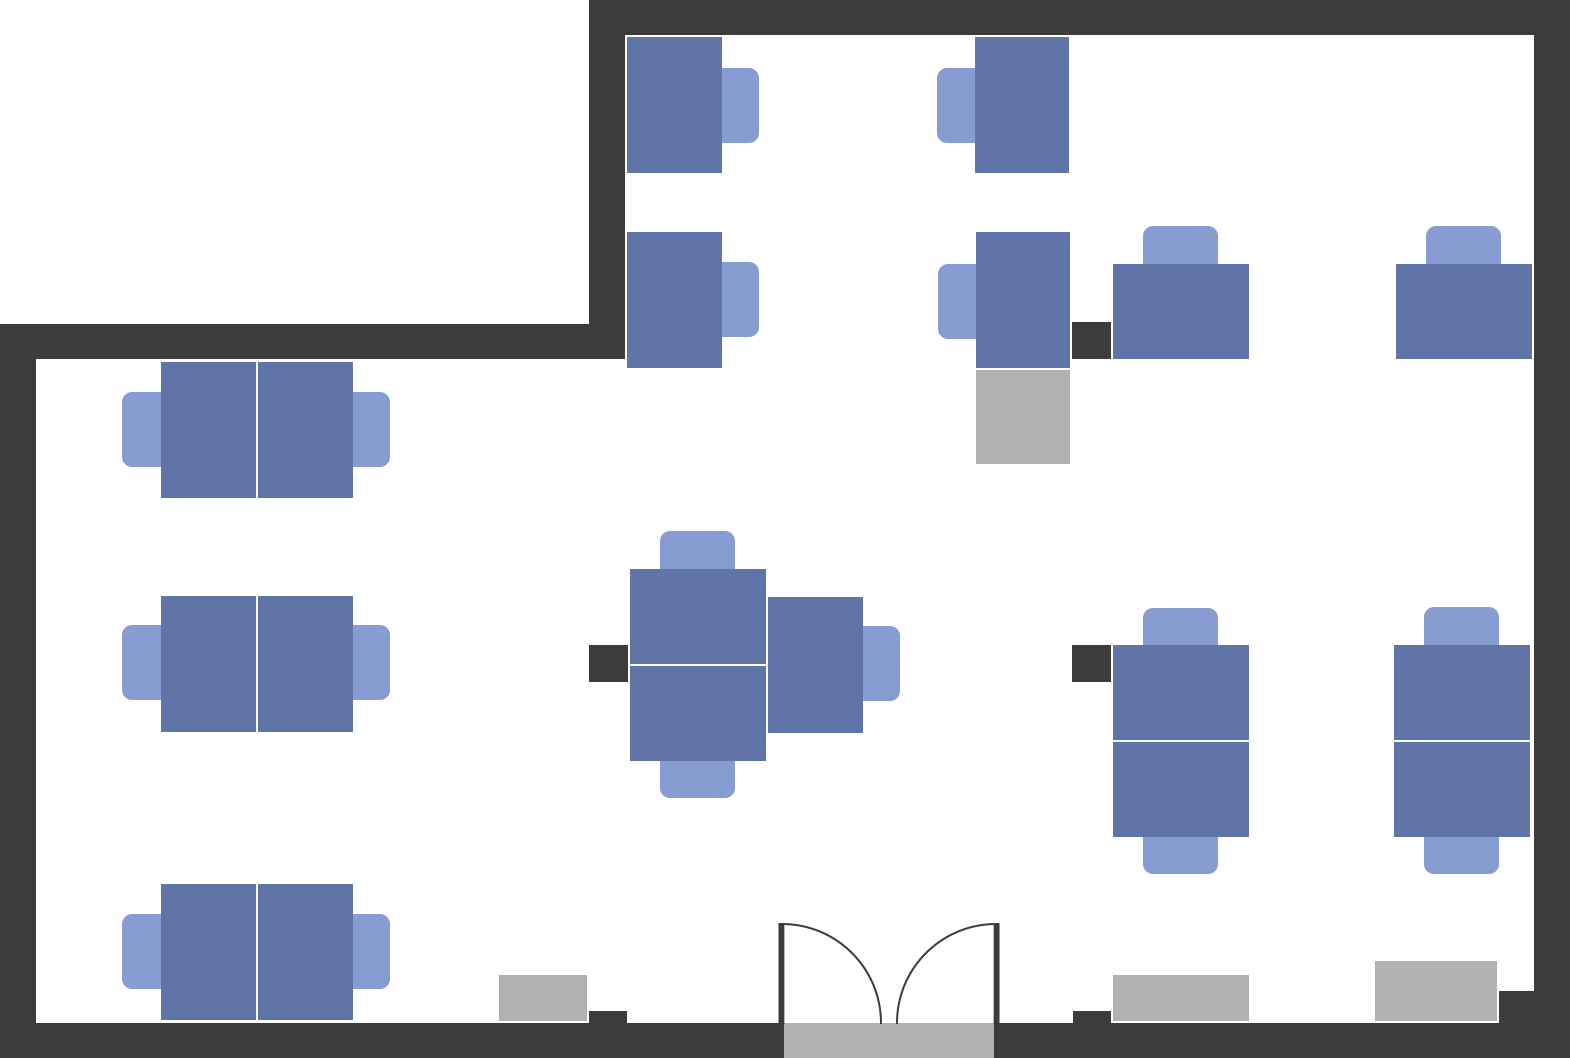
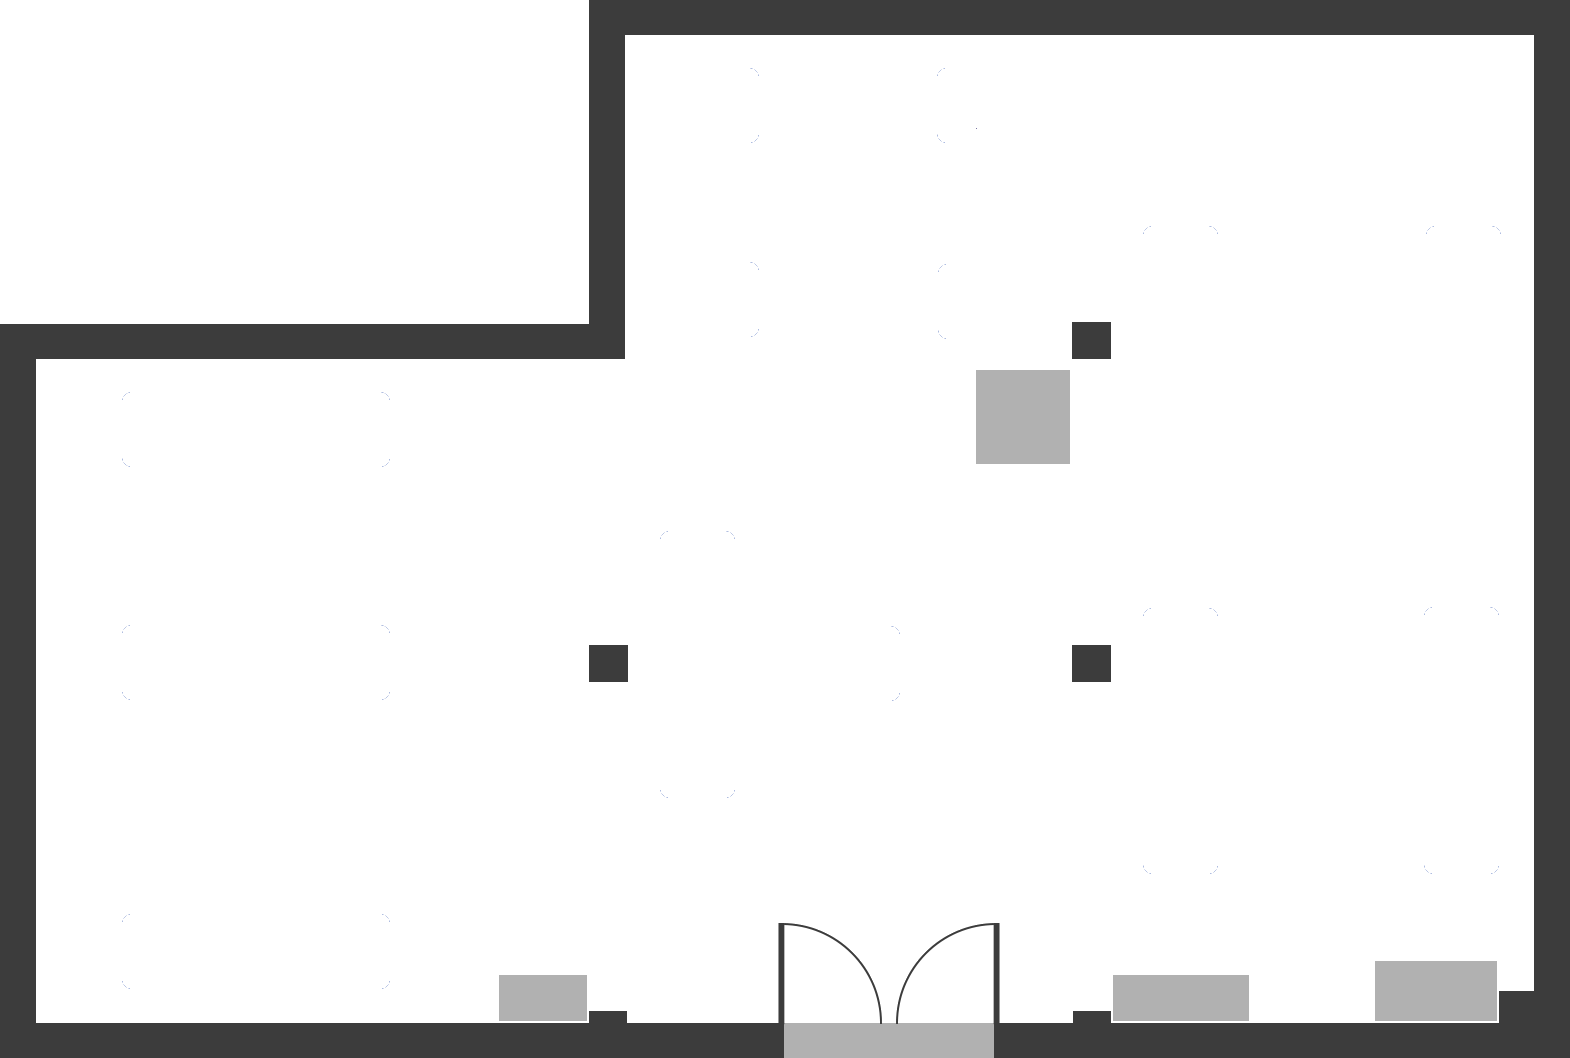
split desk images from roompic to individual Seats

diff --git a/view.py b/view.py
@@ -1,7 +1,10 @@
-import tkinter as tk, tkinter.ttk as ttk, math, data, config
+import calendar
+import tkinter as tk, tkinter.ttk as ttk
+import math, data, config
 from tkinter import messagebox, font, filedialog
 from datetime import date, timedelta
 from PIL import ImageOps, ImageTk, Image
+from tkcalendar import Calendar, DateEntry
 
 rootDir = './'
 imgDir = rootDir + 'img/'
@@ -16,7 +19,7 @@ class View(tk.Tk):
 
         self.title('DeskShare')
 
-        self.showSeat = None
+        self.showSeat = None #self.config.data
         self.showParticipant = None
         self.draggedParticipant = None
         self.draggedTo = None
@@ -111,12 +114,14 @@ class View(tk.Tk):
         self.showSeat = None
         self.draw()
         self.mainframe.sidebar.refresh()
+        self.mainframe.roommap.refresh()
     def openOpenDialog(self, event):
         loadfile = filedialog.askopenfilename(filetypes=(('save files','*.sav'),('all files','*.*')))
         self.config.loadData(loadfile)
         self.showSeat = None
         self.draw()
         self.mainframe.sidebar.refresh()
+        self.mainframe.roommap.refresh()
     def openSaveAsDialog(self, event):
         savefile = filedialog.asksaveasfilename(filetypes=(('save files','*.sav'),('all files','*.*')), defaultextension='.sav')
         self.config.saveData(savefile)
@@ -178,36 +183,24 @@ class ToolBar(tk.Frame):
         self.addButton('doc_minus_icon&24.png', '<<RemoveParticipant>>')
         ttk.Separator(self, orient=tk.VERTICAL).pack(side=tk.LEFT, fill='y')
 
-        self.addButton('arrow_left_icon&24.png', '<<DecrementDate>>')
-
-        self.dateText = tk.Entry(self, width=10)
-        self.dateText.insert(0, self.master.showDate.strftime('%d.%m.%Y'))
-        self.dateText.pack(side=tk.LEFT, padx=2, pady=2)
-
-        self.addButton('arrow_right_icon&24.png', '<<IncrementDate>>')
-
-        self.dateText.bind('<Return>', self.changeDateToInput)
-        self.bind('<<DecrementDate>>', self.decrementDate)
-        self.bind('<<IncrementDate>>', self.incrementDate)
+        self.dateText =  DateEntry(self, width=10, date_pattern = 'dd.mm.yyyy')
+        self.dateText.pack(side=tk.LEFT, padx=2, pady=1)
+        self.dateText.bind('<<DateEntrySelected>>', self.applyDate)
+        self.dateText.bind('<Return>', self.applyDate)
+        self.dateText.bind('<FocusOut>', self.applyDate)
 
         self.pack(side=tk.TOP, fill=tk.X)
+        self.update()
+        
     def addButton(self, iconFilename, eventName):
         icon = ImageTk.PhotoImage(Image.open(iconDir + iconFilename))
         button = tk.Button(self, image=icon, relief=tk.FLAT, command=lambda: self.event_generate(eventName))
         button.image = icon
-        button.pack(side=tk.LEFT, padx=2, pady=2)
-    def changeDateTo(self, newDate):
-        if not isinstance(newDate, data.Error):
-            self.master.showDate = newDate
-        self.dateText.delete(0, tk.END)
-        self.dateText.insert(0, self.master.showDate.strftime('%d.%m.%Y'))
+        button.pack(side=tk.LEFT, padx=2, pady=1)
+    def applyDate(self, event):
+        self.master.showDate = self.master.config.data.stringToDate(self.dateText.get_date())
+        self.focus_set()
         self.master.draw()
-    def changeDateToInput(self, event):
-        self.changeDateTo(self.master.data.stringToDate(self.dateText.get()))
-    def decrementDate(self, event):
-        self.changeDateTo(self.master.showDate - timedelta(days=1))
-    def incrementDate(self, event):
-        self.changeDateTo(self.master.showDate + timedelta(days=1))
 class SideBar(tk.Frame):
     def __init__(self, master):
         super().__init__(master, bd=1, relief=tk.RAISED)
@@ -275,18 +268,25 @@ class Roommap(tk.Canvas):
     def __init__(self, master):
         super().__init__(master)
         self.master = master
-        self.roomImg = Image.open('./room.png')
+        self.refresh()
+        
         self.bind('<Button>', self.onClick)
         self.bind('<ButtonRelease>', self.onRelease)
+    def refresh(self):
+        self.roomImg = Image.open('./room.png')
+        for seat in self.master.master.config.data.seats:
+            self.roomImg = seat.draw(self.roomImg)
     def draw(self):
         self.update()
         relH = self.winfo_height()/self.roomImg.height
         relW = self.winfo_width()/self.roomImg.width
         self.rel = min(relW, relH)
         self.roomImgResized = ImageTk.PhotoImage(ImageOps.scale(self.roomImg, self.rel))
+        
         super().create_image(0, 0, anchor=tk.NW, image=self.roomImgResized)
-        self.font = tk.font.Font(family='Helvetica', size=int(-20*self.rel))
+        self.font = font.Font(family='Helvetica', size=int(-20*self.rel))
         for seat in iter(self.master.master.config.data.seats):
+            # seat.draw(self, self.rel)
             for assignment in iter(seat.assignments):
                 if assignment.begin <= self.master.master.showDate and assignment.end >= self.master.master.showDate:
                     self.drawParticipant(seat, assignment.participant)
@@ -302,6 +302,7 @@ class Roommap(tk.Canvas):
         super().create_text(x, yExit, text=participant.exitDate.strftime('%d.%m.%Y'), font=self.font, fill='#FF0000')
         if self.master.master.showSeat != None:
             super().create_rectangle(self.master.master.showSeat.x1*self.rel, self.master.master.showSeat.y1*self.rel, self.master.master.showSeat.x2*self.rel, self.master.master.showSeat.y2*self.rel, width=2, outline='#FF0000')
+
     def onClick(self, event):
         event.x = event.x/self.rel
         event.y = event.y/self.rel
@@ -320,42 +321,44 @@ class AddParticipantDialog(tk.Toplevel):
         self.title('Neuer Teilnehmer')
         self.grab_set()
         self.resizable(height=0, width=0)
+        _width = 30
 
         firstNameLabel = tk.Label(self, text='Vorname', justify=tk.LEFT)
-        firstNameLabel.grid(row=0, column=0, sticky=tk.W)
+        firstNameLabel.grid(row=0, column=0, sticky=tk.W, pady=1)
 
-        firstNameField = tk.Entry(self, width=30)
-        firstNameField.grid(row=0, column=1)
+        firstNameField = tk.Entry(self, width=_width)
+        firstNameField.grid(row=0, column=1, pady=1)
 
         lastNameLabel = tk.Label(self, text='Nachname', justify=tk.LEFT)
-        lastNameLabel.grid(row=1, column=0, sticky=tk.W)
+        lastNameLabel.grid(row=1, column=0, sticky=tk.W, pady=1)
 
-        lastNameField = tk.Entry(self, width=30)
-        lastNameField.grid(row=1, column=1)
+        lastNameField = tk.Entry(self, width=_width, borderwidth=1, )
+        lastNameField.grid(row=1, column=1, pady=1)
         
         entryDateLabel = tk.Label(self, text='Eintritt', justify=tk.LEFT)
-        entryDateLabel.grid(row=2, column=0, sticky=tk.W)
+        entryDateLabel.grid(row=2, column=0, sticky=tk.W, pady=1)
 
-        entryDateField = tk.Entry(self, width=30)
-        entryDateField.grid(row=2, column=1)
+        entryDateField = DateEntry(self, width=_width-3, date_pattern = 'dd.mm.yyyy')
+        entryDateField.grid(row=2, column=1, pady=1)
 
         exitDateLabel = tk.Label(self, text='Austritt', justify=tk.LEFT)
-        exitDateLabel.grid(row=3, column=0, sticky=tk.W)
+        exitDateLabel.grid(row=3, column=0, sticky=tk.W, pady=1)
 
-        exitDateField = tk.Entry(self, width=30)
-        exitDateField.grid(row=3, column=1)
+        exitDateField = DateEntry(self, width=_width-3, date_pattern = 'dd.mm.yyyy')
+        exitDateField.set_date(date(date.today().year+2, date.today().month, date.today().day+1))
+        exitDateField.grid(row=3, column=1, pady=1)
 
         noteLabel = tk.Label(self, text='Notiz')
-        noteLabel.grid(row=4, column=0, sticky=tk.W)
+        noteLabel.grid(row=4, column=0, sticky=tk.W, pady=1)
 
-        noteField = tk.Entry(self, width=30)
-        noteField.grid(row=4, column=1)
+        noteField = tk.Entry(self, width=_width)
+        noteField.grid(row=4, column=1, pady=1)
         
         addButton = tk.Button(self, text='Hinzufügen', command=lambda: self.tryAddParticipant(firstNameField.get(), lastNameField.get(), entryDateField.get(), exitDateField.get(), noteField.get()))
-        addButton.grid(row=5, column=0)
+        addButton.grid(row=5, column=0, pady=1)
 
         cancelButton = tk.Button(self, text='Abbrechen', command=self.destroy)
-        cancelButton.grid(row=5, column=1)
+        cancelButton.grid(row=5, column=1, pady=1)
     def tryAddParticipant(self, firstName, lastName, entryDate, exitDate, note=''):
         tk.Event.data = [firstName, lastName, entryDate, exitDate, note]
         self.event_generate('<<AddParticipant>>')

diff --git a/data.py b/data.py
@@ -1,4 +1,6 @@
 from datetime import date, timedelta
+from PIL import ImageOps, ImageTk, Image
+import tkinter as tk
 
 class Data():
     def __init__(self):
@@ -122,12 +124,30 @@ class Participant():
             func(assignment, beginDate, endDate, exclude)
 
 class Seat():
-    def __init__(self, x1, y1, x2, y2):
+    def __init__(self, x1, y1, x2, y2, rot=0):
         self.x1 = x1
         self.y1 = y1
         self.x2 = x2
         self.y2 = y2
         self.assignments = []
+        self.rot = rot
+        self.img = Image.open('./img/Desk.png')
+
+        self.offset_x = 0
+        self.offset_x = 0
+        self.offset_y = 0
+
+        if self.rot == 0:
+            pass
+        elif self.rot == 1:
+            self.offset_y = 1
+            self.offset_x = -1
+        elif self.rot == 3:
+            self.offset_x = -40
+            self.offset_y = 1
+        elif self.rot == 2:
+            self.offset_y = -37
+
     def getParticipant(self, date):
         for assignment in iter(self.assignments):
             if assignment.begin < date and assignment.end > date:
@@ -142,6 +162,11 @@ class Seat():
     def doAssignmentsByTime(self, beginDate, endDate, func):
         for assignment in iter(self.assignments):
             func(assignment, beginDate, endDate)
+    def draw(self, roomImg:Image):
+        
+        img = self.img.rotate(self.rot*90,resample=Image.BILINEAR)
+        roomImg.alpha_composite(img, (self.x1+self.offset_x, self.y1+self.offset_y))
+        return roomImg
 
 class Assignment():
     def __init__(self, participant, seat, begin, end):
@@ -161,22 +186,22 @@ class Error():
 class ITLOFT(Data):
     def __init__(self):
         super().__init__()
-        self.seats.append(Seat(161, 362, 255, 497))
-        self.seats.append(Seat(258, 362, 352, 497))
-        self.seats.append(Seat(161, 596, 255, 731))
-        self.seats.append(Seat(258, 596, 352, 731))
-        self.seats.append(Seat(161, 884, 255, 1019))
-        self.seats.append(Seat(258, 884, 352, 1019))
-        self.seats.append(Seat(630, 569, 765, 663))
-        self.seats.append(Seat(630, 666, 765, 760))
-        self.seats.append(Seat(768, 597, 862, 732))
-        self.seats.append(Seat(1113, 742, 1248, 836))
-        self.seats.append(Seat(1113, 645, 1248, 739))
-        self.seats.append(Seat(1394, 742, 1529, 836))
-        self.seats.append(Seat(1394, 645, 1529, 739))
-        self.seats.append(Seat(1396, 264, 1531, 358))
-        self.seats.append(Seat(1113, 264, 1248, 358))
-        self.seats.append(Seat(976, 232, 1069, 367))
-        self.seats.append(Seat(975, 37, 1068, 172))
-        self.seats.append(Seat(627, 232, 721, 367))
-        self.seats.append(Seat(627, 37, 721, 172))
+        self.seats.append(Seat(161, 362, 255, 497, 3))
+        self.seats.append(Seat(258, 362, 352, 497, 1))
+        self.seats.append(Seat(161, 596, 255, 731, 3))
+        self.seats.append(Seat(258, 596, 352, 731, 1))
+        self.seats.append(Seat(161, 884, 255, 1019, 3))
+        self.seats.append(Seat(258, 884, 352, 1019, 1))
+        self.seats.append(Seat(630, 569, 765, 663, 2))
+        self.seats.append(Seat(630, 666, 765, 760, 0))
+        self.seats.append(Seat(768, 597, 862, 732, 1))
+        self.seats.append(Seat(1113, 742, 1248, 836, 0))
+        self.seats.append(Seat(1113, 645, 1248, 739, 2))
+        self.seats.append(Seat(1394, 742, 1529, 836, 0))
+        self.seats.append(Seat(1394, 645, 1529, 739, 2))
+        self.seats.append(Seat(1396, 264, 1531, 358, 2))
+        self.seats.append(Seat(1113, 264, 1248, 358, 2))
+        self.seats.append(Seat(976, 232, 1069, 367, 3))
+        self.seats.append(Seat(975, 37, 1068, 172, 3))
+        self.seats.append(Seat(627, 232, 721, 367, 1))
+        self.seats.append(Seat(627, 37, 721, 172, 1))

diff --git a/config.py b/config.py
@@ -1,5 +1,6 @@
 import data
 from datetime import date, timedelta
+import os
 
 class Config():
     def __init__(self):
@@ -7,6 +8,8 @@ class Config():
         self.lastSavefile = None
         self.dateFormat = '%d.%m.%Y'
         self.loadConfig()
+        if os.path.isfile(self.lastSavefile):
+            pass
         self.loadData(self.lastSavefile)
     def loadConfig(self):
         with open('./config.ini', 'r') as file:
@@ -36,6 +39,7 @@ class Config():
                 file.write(int(seat.y1).to_bytes(2, 'big'))
                 file.write(int(seat.x2).to_bytes(2, 'big'))
                 file.write(int(seat.y2).to_bytes(2, 'big'))
+                file.write(int(seat.rot).to_bytes(2, 'big'))
             for participant in iter(self.data.participants):
                 file.write(int(len(participant.firstName)).to_bytes(1, 'big'))
                 file.write(str(participant.firstName).encode('utf-16')[2:])
@@ -61,6 +65,7 @@ class Config():
         file.closed
     def loadData(self, path):
         self.data = data.Data()
+
         with open(path, 'rb') as file:
             if(file.read(4).decode('utf-8') == 'DeSh'):
                 lenSeats = int.from_bytes(file.read(2), 'big')
@@ -71,7 +76,8 @@ class Config():
                     y1 = int.from_bytes(file.read(2), 'big')
                     x2 = int.from_bytes(file.read(2), 'big')
                     y2 = int.from_bytes(file.read(2), 'big')
-                    self.data.seats.append(data.Seat(x1, y1, x2, y2))
+                    rot = int.from_bytes(file.read(2), 'big')
+                    self.data.seats.append(data.Seat(x1, y1, x2, y2, rot))
                 for i in range(lenParticipants):
                     lenFirstName = int.from_bytes(file.read(1), 'big')
                     firstName = file.read(2*lenFirstName).decode('utf-16')
